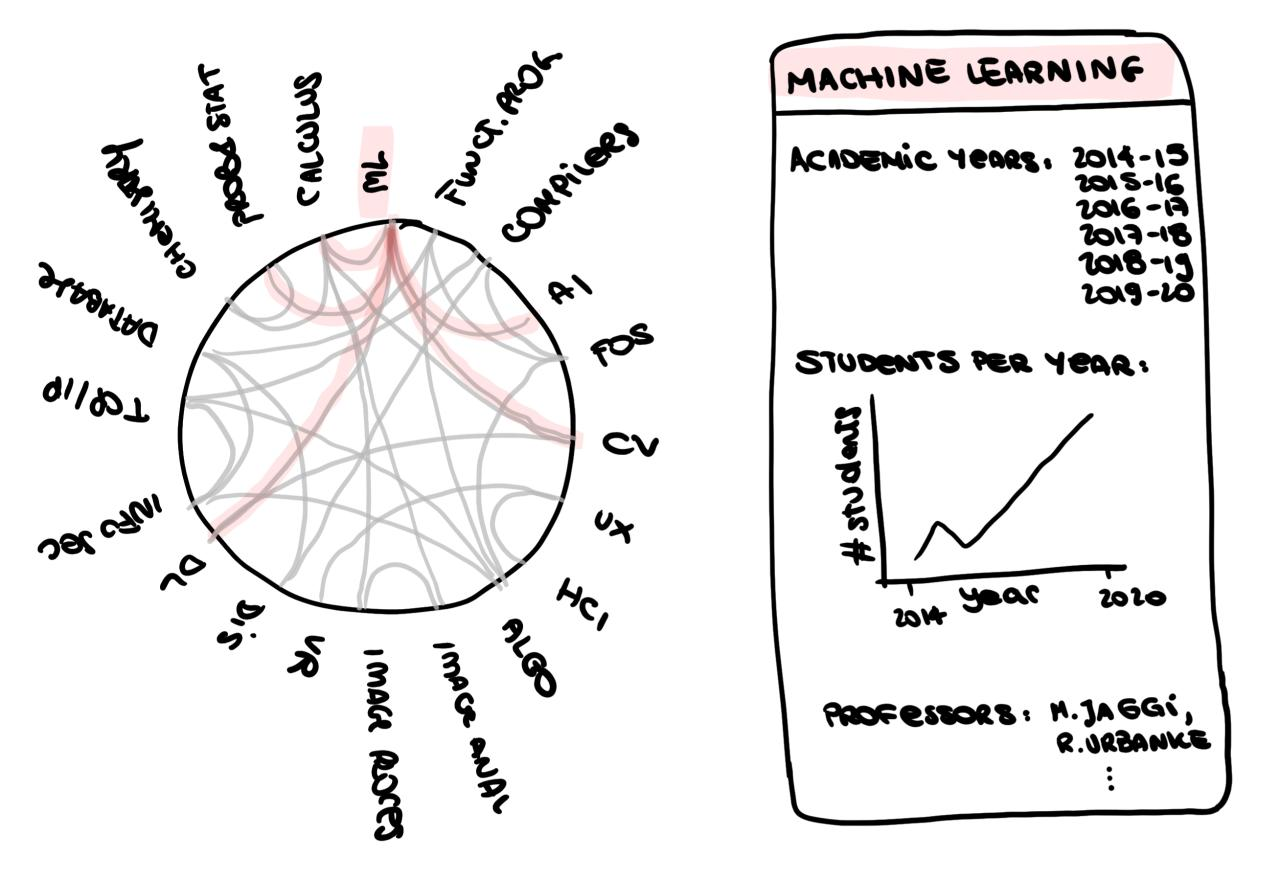
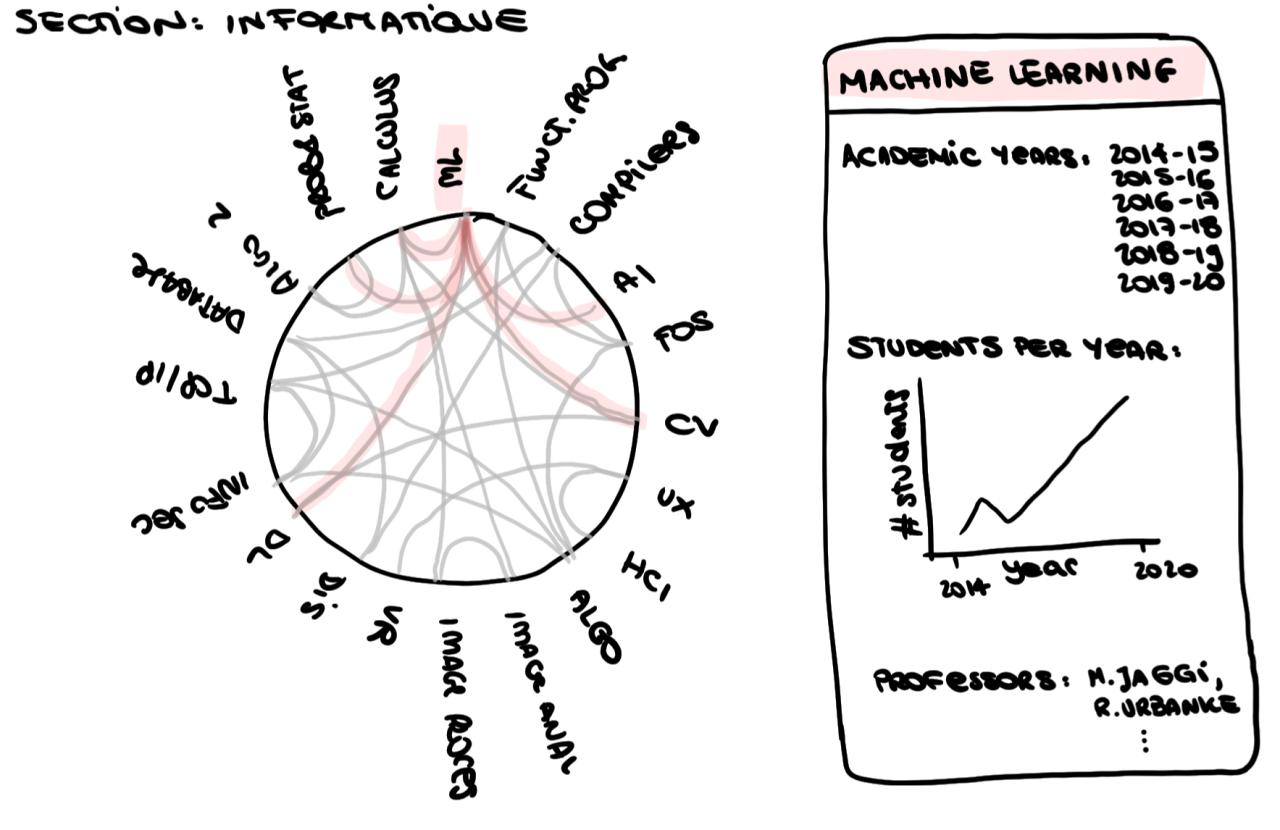
sketches

diff --git a/README.md b/README.md
@@ -76,12 +76,11 @@ TSNE plot:
 At the moment, we have not found any other related applications or websites. EPFL students choose courses based on the study plan offered online and keywords that are on the course description pages. As for the feature related to companies, LinkedIn allows HR to find people with specific skills but not for courses that they have done.
 
 
-##### Some sketches of our future visualizations [TODO: I am updating it]
-Show courses related to a selected one and insights about it.
+##### Some sketches of our future visualizations 
+Show courses related to a selected one(s), since we a lot of courses we will ask to the user to filter which one they want to look (e.g., filter by section). Moreover to hightlight the connections (shown in pink in the Fig. below) the user can select multiple courses. When you hover on the title of a course you will see a card on the right showing some insights about it.
 <p align="center">
  <img src="/src/images/sketch1.jpg" width="400px" />
 </p>
-quando clicchi selezioni, ci saranno troppi corsi. Magari creare profilo e dire che corsi mi sono piaciuti (non scegliere sezione) --> trovare un modo per filtrare
 
 Show the top N courses for a section (e.g. IC) over the years.
 <p align="center">
@@ -89,22 +88,16 @@ Show the top N courses for a section (e.g. IC) over the years.
 </p>
 
 
-<!-- Show relation between a major and the courses selected by its students. For 1 course how people are distributed between different majors. 
+Help a user to choose his/her next semester courses. You can insert your name as a student and it return the graphical representation of the courses that you have done with a suggestion of what you could do based on your interests.
 <p align="center">
- <img src="/src/images/sketch4.jpg" width="350px" />
+ <img src="/src/images/sketch4b.jpg" width="500px" />
 </p>
-redo or change it then not for every majors
+<!-- For 1 course how people are distributed between different majors. redo or change it then not for every majors
 right: list of popular course
 left: master semester
 on which semester a course was taken
 plot: 1 to 1 relationship or 1 to N -->
 
-
-Help a user to choose his/her next semester courses.
-<p align="center">
- <img src="/src/images/sketch3.jpg" width="500px" />
-</p>
-remove courses without no connections (maybe change visualization)
 
 ## Milestone 2 (Friday 1st May, 5pm)
 
